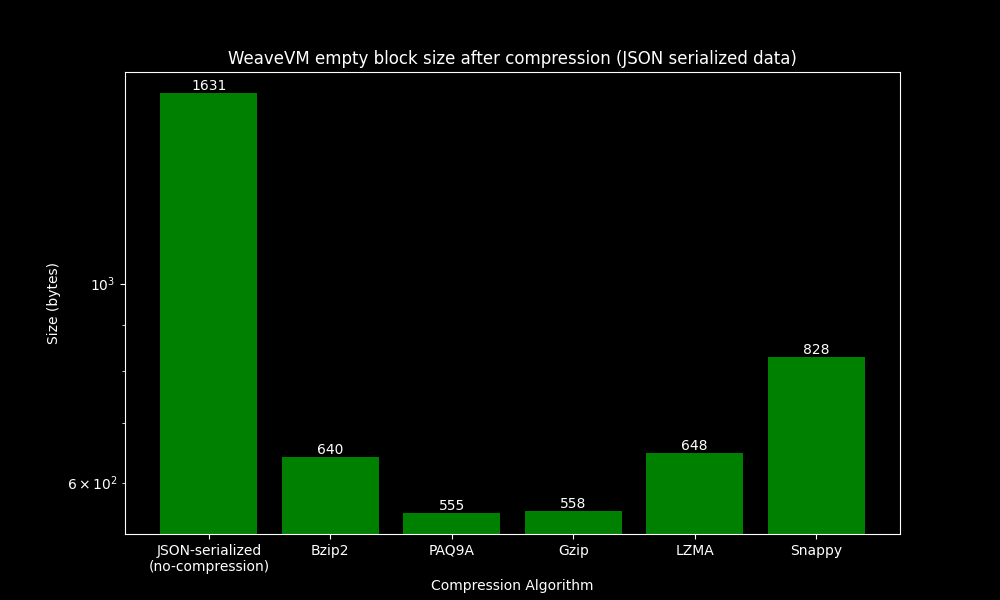
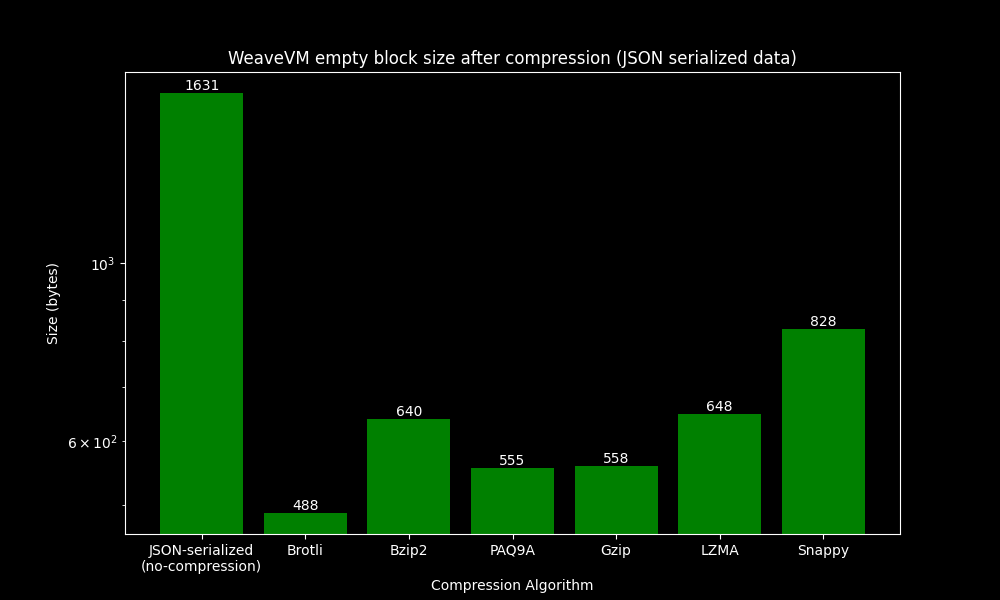
chore: add Brotli to compression benchmarking

diff --git a/serialization_compression_benchmark/json_serialized/json_serialized.py b/serialization_compression_benchmark/json_serialized/json_serialized.py
@@ -3,11 +3,16 @@ import gzip
 import bz2
 import lzma
 import paq
+import brotli
 
 import matplotlib.pyplot as plt
 
[1 lines of base64/hex data omitted]
 print(f"Original size: {len(data)}")
+
+# Brotli compression
+compressed_brotli = brotli.compress(data)
+print(f"Brotli compressed size: {len(compressed_brotli)}")
 
 # paq9a compression
 compressed_paq = paq.compress(data)
@@ -35,9 +40,10 @@ plt.style.use('dark_background')
 plt.style.use('dark_background')
 
 # Data
-methods = ['JSON-serialized\n(no-compression)', 'Bzip2', 'PAQ9A', 'Gzip', 'LZMA', 'Snappy']
+methods = ['JSON-serialized\n(no-compression)', 'Brotli', 'Bzip2', 'PAQ9A', 'Gzip', 'LZMA', 'Snappy']
 sizes = [
     len(data),
+    len(compressed_brotli),
     len(compressed_bz2),
     len(compressed_paq),
     len(compressed_gzip),

diff --git a/serialization_compression_benchmark/borsh_serialized/borsh_serialized.py b/serialization_compression_benchmark/borsh_serialized/borsh_serialized.py
@@ -6,7 +6,7 @@ import paq
 from borsh_construct import U8, U64, String, CStruct, Option, Vec
 from construct import Container
 import matplotlib.pyplot as plt
-import json
+import brotli
 
 # Define Hex as a string for simplicity
 Hex = String
@@ -108,6 +108,9 @@ length_built_data = len(built_data)
 print(f"Original size: {len(built_data)}")
 
 # paq9a compression
+compressed_brotli = brotli.compress(built_data)
+print(f"Brotli compressed size: {len(compressed_brotli)}")
+# paq9a compression
 compressed_paq = paq.compress(built_data)
 print(f"PAQ compressed size: {len(compressed_paq)}")
 
@@ -133,9 +136,10 @@ plt.style.use('dark_background')
 plt.style.use('dark_background')
 
 # Data
-methods = ['Borsh-serialized\n(no compression)', 'Bzip2', 'PAQ9A', 'Gzip', 'LZMA', 'Snappy']
+methods = ['Borsh-serialized\n(no compression)', 'Brotli', 'Bzip2', 'PAQ9A', 'Gzip', 'LZMA', 'Snappy']
 sizes = [
     len(built_data),
+    len(compressed_brotli),
     len(compressed_bz2),
     len(compressed_paq),
     len(compressed_gzip),
